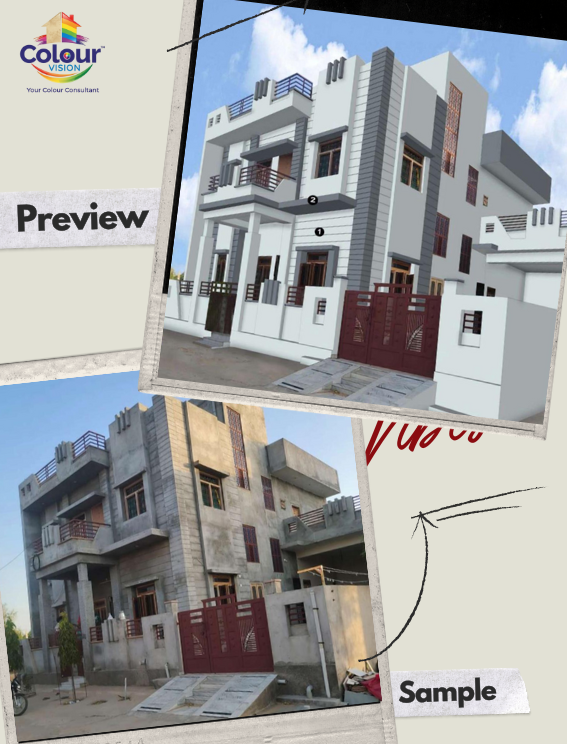
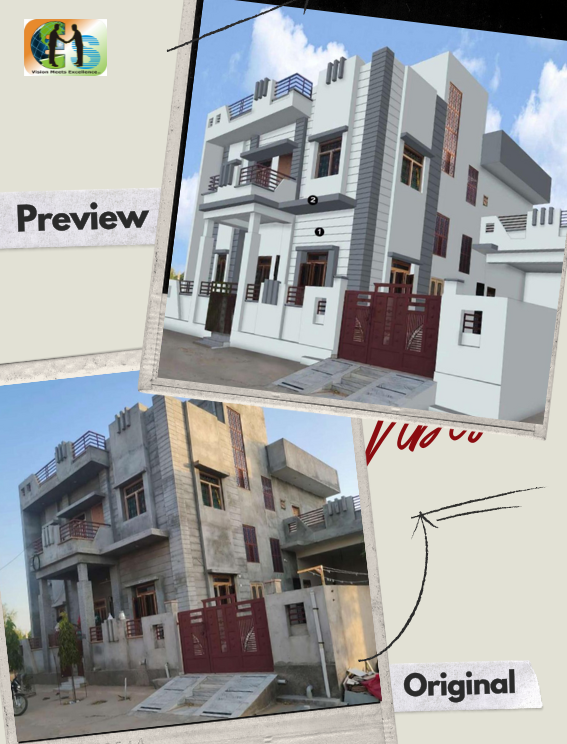
Updating

Changed region(s): [[0.03, 0.0, 0.2099, 0.1237], [0.6896, 0.8965, 0.9594, 0.9583]]

diff --git a/index.html b/index.html
@@ -21,20 +21,107 @@
 	<link rel="stylesheet" href="assets/css/global.css">
 	<link rel="stylesheet" href="assets/css/style.css">
 
-	<style>
+	<!-- <style>
   
 
   /* ADD THIS NEW CODE: 
     This targets the blue overlay and removes it.
   */
-  .ori-video-play-7::before {
+ 
+</style> -->
+<!-- sponsor slider styles -->
+<style>
+	/* ---- Sponsor slider: keep logos inside the white card ---- */
+
+/* the white card that contains the logos */
+.ori-sponsor-content-7 {
+  position: relative;       /* ensure it's the clipping ancestor */
+  overflow: hidden;         /* clip anything that sticks out */
+  padding: 40px 30px;       /* keep some inner spacing from edges */
+  border-radius: 10px;
+  box-shadow: 0 18px 40px rgba(15, 30, 50, 0.06);
+  background: #fff;
+}
+
+/* keep the slider full-width inside the card */
+.ori-sponsor-slider-7 {
+  width: 100%;
+  margin: 18px auto 0;
+}
+
+/* ensure slick's visible area is clipped */
+.ori-sponsor-slider-7 .slick-list,
+.ori-sponsor-slider-7 .slick-track {
+  overflow: hidden !important;   /* important to override earlier rule */
+}
+
+/* align each slide nicely and center logos */
+.ori-sponsor-slider-7 .ori-sponsor-img {
+  display: flex !important;
+  align-items: center;
+  justify-content: center;
+  padding: 8px 18px;
+}
+
+/* logo sizing */
+.ori-sponsor-slider-7 .ori-sponsor-img img {
+  max-height: 60px;
+  width: auto;
+  display: block;
+  object-fit: contain;
+}
+
+/* mobile responsiveness */
+@media (max-width: 768px) {
+  .ori-sponsor-content-7 { padding: 20px 12px; }
+  .ori-sponsor-slider-7 .ori-sponsor-img img { max-height: 46px; }
+}
+
+
+	 .ori-video-play-7::before {
     background: none !important; 
   }
 
+  /* container item */
+  .ori-sponsor-slider-7 {
+    margin: 30px 0 10px;
+  }
+
+  .ori-sponsor-slider-7 .ori-sponsor-img {
+    padding: 10px 18px;
+    display: flex !important;
+    align-items: center;
+    justify-content: center;
+    outline: none;
+  }
+
+  .ori-sponsor-slider-7 .ori-sponsor-img .inner-img {
+    display: flex;
+    align-items: center;
+    justify-content: center;
+    width: 100%;
+  }
+
+  .ori-sponsor-slider-7 .ori-sponsor-img img {
+    max-height: 60px;  /* tweak this height if needed */
+    width: auto;
+    display: block;
+    object-fit: contain;
+  }
+
+  /* make sure slick track isn't clipped */
+  .ori-sponsor-slider-7 .slick-track, .ori-sponsor-slider-7 .slick-list {
+    overflow: visible;
+  }
+
+  /* optional: add some spacing and center the heading */
+  #ori-sponsor-7 h3 { text-align: center; margin-bottom: 18px; font-weight: 600; }
 </style>
+
+
 </head>
 <body class="digital-agency-2">
-	<div id="preloader"></div>
+	<!-- <div id="preloader"></div> -->
 	<div class="up">
 		<a href="#" class="scrollup text-center"><i class="fas fa-chevron-up"></i></a>
 	</div>
@@ -46,7 +133,7 @@
 		<div class="ori-header-content-area">
 			<div class="ori-header-content d-flex align-items-center justify-content-between">
 				<div class="brand-logo">
-					<a href="#"><img src="assets/img/logo/logo55.png" alt=""></a>
+					<a href="#"><img src="assets/img/logo/logo (2).png" alt=""></a>
 				</div>
 				<div class="ori-main-navigation-cta-btn d-flex align-items-center">
 					<div class="ori-main-navigation-area">
@@ -529,6 +616,41 @@
 							<img src="assets/img/sponsor/bangur.png" alt="">
 						</div>
 					</div>
+					<div class="ori-sponsor-img">
+						<div class="inner-img">
+							<img src="assets/img/sponsor/hsbc.png" alt="">
+						</div>
+					</div>
+					<div class="ori-sponsor-img">
+						<div class="inner-img">
+							<img src="assets/img/sponsor/tiscon.png" alt="">
+						</div>
+					</div>
+					<div class="ori-sponsor-img">
+						<div class="inner-img">
+							<img src="assets/img/sponsor/itc.png" alt="">
+						</div>
+					</div>
+					<div class="ori-sponsor-img">
+						<div class="inner-img">
+							<img src="assets/img/sponsor/tatasteel.png" alt="">
+						</div>
+					</div>
+					<div class="ori-sponsor-img">
+						<div class="inner-img">
+							<img src="assets/img/sponsor/harman.png" alt="">
+						</div>
+					</div>
+					<div class="ori-sponsor-img">
+						<div class="inner-img">
+							<img src="assets/img/sponsor/adani.png" alt="">
+						</div>
+					</div>
+					<div class="ori-sponsor-img">
+						<div class="inner-img">
+							<img src="assets/img/sponsor/bangur.png" alt="">
+						</div>
+					</div>
 				</div>
 			</div>
 		</div>
@@ -813,7 +935,7 @@
 								</div>
 							</div>
 							<div class="ori-counter-cta-btn">
-								<span>Want to Contact with us?</span> <a href="mailto:amitkedia15@gmail.com" class="ori-btn-7">Send us Mail</a>
+								<span>Want to Contact with us?</span> <a href="mailto:support@envisionservices.in" class="ori-btn-7">Send us Mail</a>
 							</div>
 						</div>
 					</div>
@@ -826,8 +948,8 @@
 											<img src="assets/img/project/pro1.png" alt="">
 										</div>
 										<div class="ori-project-text">
-											<h3><a href="#">Digital Previews Of Homes</a></h3>
-											<span><a href="#">by Colour Vision</a></span>
+											<h3><a href="#">Digital Previews</a></h3>
+											<!-- <span><a href="#">by Colour Vision</a></span> -->
 											<div class="ori-project-btn d-flex align-items-center justify-content-center position-absolute">
 												<a href="#"><i class="far fa-plus"></i></a>
 											</div>
@@ -837,7 +959,7 @@
 								<div class="ori-project-slider-item-7">
 									<div class="ori-project-slider-item-area position-relative">
 										<div class="ori-project-img">
-											<img src="assets/img/project/pro2.jpg" alt="">
+											<img src="assets/img/project/pro2.png" alt="">
 										</div>
 										<div class="ori-project-text">
 											<h3><a href="#">Corporate Events</a></h3>
@@ -851,11 +973,11 @@
 								<div class="ori-project-slider-item-7">
 									<div class="ori-project-slider-item-area position-relative">
 										<div class="ori-project-img">
-											<img src="assets/img/project/pro1.jpg" alt="">
+											<img src="assets/img/project/pro3 (2).png" alt="">
 										</div>
 										<div class="ori-project-text">
-											<h3><a href="#">Digital Consulting</a></h3>
-											<span><a href="#">GMG Group LTD</a></span>
+											<h3><a href="#">Giftings</a></h3>
+											<!-- <span><a href="#">GMG Group LTD</a></span> -->
 											<div class="ori-project-btn d-flex align-items-center justify-content-center position-absolute">
 												<a href="#"><i class="far fa-plus"></i></a>
 											</div>
@@ -864,7 +986,7 @@
 								</div>
 								<div class="ori-project-slider-item-7">
 									<div class="ori-project-slider-item-area position-relative">
-										<div class="ori-project-img">
+										<!-- <div class="ori-project-img">
 											<img src="assets/img/project/pro1.jpg" alt="">
 										</div>
 										<div class="ori-project-text">
@@ -872,7 +994,7 @@
 											<span><a href="#">GMG Group LTD</a></span>
 											<div class="ori-project-btn d-flex align-items-center justify-content-center position-absolute">
 												<a href="#"><i class="far fa-plus"></i></a>
-											</div>
+											</div> -->
 										</div>
 									</div>
 								</div>
@@ -1159,13 +1281,13 @@
 			<div class="ori-seven-contact-content d-flex">
 				<div class="ori-seven-contact-map-info">
 					<div id="ori-seven-map">
-						<iframe class="map" src="https://www.google.com/maps/embed?pb=!1m14!1m12!1m3!1d6209.242755903148!2d-77.04363602434464!3d38.90977276948481!2m3!1f0!2f0!3f0!3m2!1i1024!2i768!4f13.1!5e0!3m2!1sen!2sus!4v1394992895496"  height="365"></iframe>
+						<iframe class="map" src="https://www.google.com/maps/embed?pb=!1m18!1m12!1m3!1d875.6648748399067!2d88.37316994801068!3d22.542057845825212!2m3!1f0!2f0!3f0!3m2!1i1024!2i768!4f13.1!3m3!1m2!1s0x3a027787cc681fc3%3A0xd5f43899aca2cddd!2sShivam%20sadan!5e1!3m2!1sen!2sin!4v1763115138488!5m2!1sen!2sin"  height="365" ></iframe>
+						<!-- <iframe class="map" src="https://www.google.com/maps/embed?pb=!1m14!1m12!1m3!1d6209.242755903148!2d-77.04363602434464!3d38.90977276948481!2m3!1f0!2f0!3f0!3m2!1i1024!2i768!4f13.1!5e0!3m2!1sen!2sus!4v1394992895496"  height="365"></iframe> -->
 					</div> 
 					<div class="ori-seven-contact-info d-flex">
 						<div class="ori-seven-contact-info-item headline pera-content">
 							<h3>Office Address:</h3>
-							<p> 380 St Kilda Road, Melbourne
-							VIC 3004, Australia</p>
+							<p> 1st Floor , Shivam Sadan , 6A Tiljala Road , Kolkata-700046</p>
 						</div>
 						<div class="ori-seven-contact-info-item headline pera-content">
 							<h3>Phone Number:</h3>
@@ -1174,7 +1296,7 @@
 						</div>
 						<div class="ori-seven-contact-info-item headline pera-content">
 							<h3>Mail Address</h3>
-							<p> amitkedia15@gmail.com</p>
+							<p>support@envisionservices.in</p>
 							<!-- <p>help@support.com</p> -->
 						</div>
 					</div>
@@ -1370,7 +1492,7 @@
 					<div class="row">
 						<div class="col-md-6">
 							<div class="ori-footer-text">
-								This is where aspiration meets innovation, candor fuels collaboration and impossible surrenders to teamwork.
+								We transform ideas into powerful experiences.Turning vision into impact, every single time.
 							</div>
 						</div>
 						<!-- <div class="col-md-6">
@@ -1390,7 +1512,7 @@
 				<div class="ori-footer-logo-social d-flex justify-content-between align-items-center">
 					<div class="ori-footer-logo">
 						<div class="brand-logo">
-							<a href="#"><img src="assets\img\logo\lastlogo.png" ></a>
+							<a href="#"><img src="assets\img\logo\logo (3).png" ></a>
 						</div>
 					</div>
 					<div class="ori-footer-social">
@@ -1431,6 +1553,35 @@
 	<script src="assets/js/jquery.magnific-popup.min.js"></script>
 	<script src="assets/js/jquery.marquee.min.js"></script>
 	<script src="assets/js/script.js"></script>
+	<script>
+  $(document).ready(function(){
+    // only init if slick is available
+    if ($.fn.slick) {
+      $('.ori-sponsor-slider-7').slick({
+        slidesToShow: 5,        // visible logos on desktop (change as needed)
+        slidesToScroll: 1,
+        autoplay: true,
+        autoplaySpeed: 0,       // required for continuous linear scroll
+        speed: 4000,            // higher = slower scroll (ms to move full width)
+        cssEase: 'linear',
+        infinite: true,
+        arrows: false,
+        dots: false,
+        pauseOnHover: true,     // pause when user hovers
+        centerMode: false,
+        swipeToSlide: true,
+        responsive: [
+          { breakpoint: 1200, settings: { slidesToShow: 4 } },
+          { breakpoint: 992,  settings: { slidesToShow: 3 } },
+          { breakpoint: 576,  settings: { slidesToShow: 2 } }
+        ]
+      });
+    } else {
+      console.warn('Slick slider not found. Make sure slick.js is loaded.');
+    }
+  });
+</script>
+
 
 </body>
 </html>		
